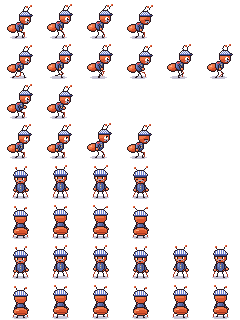
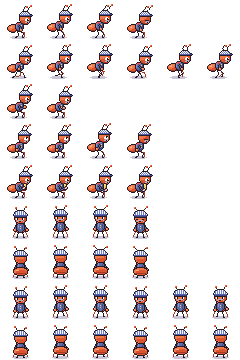
feat(villagers): give the station's villagers midday and dusk routines
- Midday: Helen wipes cups at her stall, Kapten Bram polishes his
  whistle at the foot of his carriage's steps, the Mender taps the old
  engine's wheels, and the porter keeps carrying sacks.
- Dusk: Helen sits on the platform bench facing the tunnel, Bram stands
  by the old engine, the Mender is back at the forge, and the porter
  has gone home.
- Each villager has their own line for each phase.
- A polish pose rubs what is held with a checked cloth: Helen's cup,
  Bram's whistle.
- A seat raises a villager while they sit, so a bench's sitter is on
  its seat; they stay seated when talked to, and a standing pose from
  the story keeps them on the ground.

diff --git a/game/ArtSource/chars.js b/game/ArtSource/chars.js
@@ -142,7 +142,7 @@
       bent: 1, lash: true,
       parts: [],
     },
-    helen: { sleeve: ['slate1', 'slate2'],
+    helen: { sleeve: ['slate1', 'slate2'], polish: 'cup',
       torso: { rows: ['.yyyyY.', 'SyYYYyS', 'sSSYyYS', 'sSoSYYS', 'sSSSSYT', 'SSSSSTT', '.SSTTT.', '..TTT..'],
                key: { s: 'slate0', S: 'slate1', T: 'slate2', y: 'brass1', Y: 'brass2', o: 'brass0' } },
       lash: true,
@@ -246,7 +246,7 @@
     },
     // Kapten Bram, the retired engine driver: a navy driver's jacket with brass buttons, a red neckerchief, a grey
     // moustache and the striped driver's cap.
-    bram: { sleeve: ['navy1', 'navy2'],
+    bram: { sleeve: ['navy1', 'navy2'], polish: 'whistle',
       torso: { rows: ['.rrrmm.', 'mrRNNNn', 'mNNNNon', 'mNNNNNn', 'mNNNNon', 'NNNNNnn', '.NNnnn.', '..nnn..'],
                key: { r: 'red', R: 'roofR3', m: 'navy0', N: 'navy1', n: 'navy2', o: 'brass1' } },
       bent: 0,
@@ -330,8 +330,8 @@
   };
 
   /* ---------------- poses ---------------- */
-  const POSES = { idle: 4, walk: 6, talk: 2, give: 2, receive: 2, carry: 2, carryWalk: 6, inspect: 2, wave: 2, sit: 2, moved: 2, run: 6, brew: 4, hammer: 4, look: 4, lift: 2 };
-  const FPS = { idle: 4, walk: 10, run: 12, carryWalk: 9, talk: 6, give: 3, receive: 3, carry: 4, inspect: 3, wave: 5, sit: 2, moved: 2, brew: 3, hammer: 6, look: 2, lift: 2 };
+  const POSES = { idle: 4, walk: 6, talk: 2, give: 2, receive: 2, carry: 2, carryWalk: 6, inspect: 2, wave: 2, sit: 2, moved: 2, run: 6, brew: 4, hammer: 4, look: 4, lift: 2, polish: 4 };
+  const FPS = { idle: 4, walk: 10, run: 12, carryWalk: 9, talk: 6, give: 3, receive: 3, carry: 4, inspect: 3, wave: 5, sit: 2, moved: 2, brew: 3, hammer: 6, look: 2, lift: 2, polish: 4 };
   // Those in TURN also face the camera (pose_front) and turn away from it (pose_back) as they stand, walk, run and carry.
   const TURNS = ['idle', 'walk', 'run', 'carry', 'carryWalk'], VIEWS = ['front', 'back'];
   for (const p of TURNS) for (const v of VIEWS) { POSES[`${p}_${v}`] = POSES[p]; FPS[`${p}_${v}`] = FPS[p]; }
@@ -349,6 +349,7 @@
     if (id === 'mender') s.push('hammer');
     if (id === 'bram') s.push('look');
     if (CAST[id].load) s.push('carry', 'carryWalk', 'lift');
+    if (CAST[id].polish) s.push('polish');
     if (TURN[id]) s.push(...TURNS.filter(p => s.includes(p)).flatMap(p => VIEWS.map(v => `${p}_${v}`)));
     HAS[id] = s;
   }
@@ -469,6 +470,10 @@
         r.dy = [0, 0, -1, 0][f]; r.hy -= 1; r.hx -= 1; r.eye = f === 3 ? 'blink' : 'up';
         armN = [[-1, 3], [-3, 4]]; armF = [[-1, 3], [-2, 4]];
         break;
+      case 'polish':   // rubbing what they hold (Helen's cup, Bram's whistle) with a cloth, round and round
+        armF = [[3, 3], [7, 3]]; armN = [[2, 3], [[4, 2], [6, 2], [6, 4], [4, 4]][f]];
+        r.polish = true;
+        break;
     }
     if (pose === 'carry' || pose === 'carryWalk') {
       r.parcel = [3, -1];                                   // parcel fill origin, relative to the near shoulder
@@ -586,7 +591,14 @@
       plated(x, g => { line(g, hand[0], hand[1], ex, ey, 'wood2'); rect(g, ex - 1, ey - 1, 3, 3, 'iron2'); dot(g, ex - 1, ey - 1, 'iron1'); });
       if (r.hammer.spark) { dot(x, ex + 3, ey - 2, 'yellow'); dot(x, ex + 4, ey, 'light0'); dot(x, ex + 2, ey - 3, 'light2'); }
     }
+    if (r.polish) {   // what is polished, in the far hand, under the cloth
+      const [px2, py2] = r.arms[0].pts[r.arms[0].pts.length - 1];
+      plated(x, g => ch.polish === 'cup'
+        ? (rect(g, px2 - 1, py2 - 3, 4, 3, 'white'), dot(g, px2 - 2, py2 - 2, 'white'))
+        : (rect(g, px2, py2 - 5, 2, 5, 'brass1'), dot(g, px2, py2 - 5, 'brass0'), dot(g, px2 + 1, py2 - 2, 'brass2')));
+    }
     if (!r.behind) arm(x, r.arms[1], ch.sleeve);
+    if (r.polish) [[0, -1, 'red'], [1, -1, 'white'], [0, 0, 'white'], [1, 0, 'red']].forEach(([ox, oy, c]) => dot(x, hand[0] + ox, hand[1] + oy, c));   // a checked cloth
     if (r.pot) {   // the teapot by its handle, leaning forward to pour, tea running from the spout
       const [hx2, hy2] = hand, lean = i => (r.pot.tip ? i >> 1 : 0);
       plated(x, g => {

diff --git a/game/Assets/Scripts/Core/Places.cs b/game/Assets/Scripts/Core/Places.cs
@@ -33,6 +33,9 @@ namespace Shop
                 {
                     // Morning: Helen brews at her stall, Kapten Bram paces between the frozen clock and the timetable,
                     // a porter carries sacks up from the yard to Helen's stall, and the Mender is at the anvil.
+                    // Midday: Helen wipes cups, Bram polishes the whistle by his carriage, the Mender taps the old
+                    // engine's wheels. Dusk: Helen waits on the bench facing the tunnel, Bram stands by the engine,
+                    // the Mender is back at the forge and the porter has gone home.
                     new Person
                     {
                         Id = "helen", At = V(352, 316), Label = "Helen", Spot = V(18, 2), Pose = "brew", Facing = -1, Phases = new[] { Phase.Morning },
@@ -50,7 +53,7 @@ namespace Shop
                     },
                     new Person
                     {
-                        Id = "porter", Label = "Porter", Spot = V(0, -10), Phases = new[] { Phase.Morning },
+                        Id = "porter", Label = "Porter", Spot = V(0, -10), Phases = new[] { Phase.Morning, Phase.Midday },
                         // a sack from the pile in the yard up to Helen's stall, set down by her crates, and back for the next
                         Round = new[]
                         {
@@ -64,7 +67,36 @@ namespace Shop
                         Id = "mender", At = V(566, 626), Label = "Mender", Spot = V(0, 14), Pose = "hammer", Phases = new[] { Phase.Morning },
                         Line = "Morning. Mind the sparks.",
                     },
-                    new Person { Id = "helen", At = V(352, 316), Label = "Helen", Spot = V(18, 2), Facing = -1, Phases = new[] { Phase.Midday, Phase.Dusk } },
+                    new Person
+                    {
+                        Id = "helen", At = V(352, 316), Label = "Helen", Spot = V(18, 2), Pose = "polish", Facing = -1, Phases = new[] { Phase.Midday },
+                        Line = "Every cup gets a wipe, used or not. You never know who'll step off that train.",
+                    },
+                    new Person
+                    {
+                        Id = "bram", At = V(232, 632), Label = "Kapten Bram", Spot = V(18, 4), Pose = "polish", Facing = -1, Phases = new[] { Phase.Midday },
+                        Line = "Brass goes green if you let it. I give the whistle a rub every day, in case she needs it.",
+                    },
+                    new Person
+                    {
+                        Id = "mender", At = V(520, 266), Label = "Mender", Spot = V(20, 6), Pose = "hammer", Phases = new[] { Phase.Midday },
+                        Line = "Wheels are sound. Bearings too. She could run tomorrow, if anyone let her.",
+                    },
+                    new Person
+                    {
+                        Id = "helen", At = V(430, 277), Label = "Helen", Spot = V(26, 6), Pose = "sit", Seat = 9, Facing = -1, Phases = new[] { Phase.Dusk },
+                        Line = "I sit here every evening. The tunnel's dark, but I like to be the first face they see.",
+                    },
+                    new Person
+                    {
+                        Id = "bram", At = V(612, 268), Label = "Kapten Bram", Spot = V(20, 4), Pose = "look", Facing = -1, Phases = new[] { Phase.Dusk },
+                        Line = "The old girl's still got steam in her somewhere. You can hear it, if the evening's quiet.",
+                    },
+                    new Person
+                    {
+                        Id = "mender", At = V(566, 626), Label = "Mender", Spot = V(0, 14), Pose = "hammer", Phases = new[] { Phase.Dusk },
+                        Line = "One more piece before dark. The forge doesn't like to go cold.",
+                    },
                 },
                 Hotspots = new[]
                 {

diff --git a/game/Assets/Scripts/Actors/Ant.cs b/game/Assets/Scripts/Actors/Ant.cs
@@ -34,6 +34,7 @@ namespace Shop
         Texture2D sheet;
         string pose = "idle";
         int facing = 1;
+        float seat;
         Heading heading;
         Sprite held;
         float time, step;
@@ -122,6 +123,17 @@ namespace Shop
             {
                 facing = value;
                 Refresh();
+            }
+        }
+
+        /// <summary>How high the seat it sits on is, in art px; it is raised by that while it sits.</summary>
+        public float Seat
+        {
+            get => seat;
+            set
+            {
+                seat = value;
+                Place();
             }
         }
 
@@ -266,7 +278,7 @@ namespace Shop
         void Place()
         {
             var world = transform.parent ? transform.parent.GetComponent<BakedArt>() : null;
-            transform.localPosition = Art.World(feet, (world ? world.Relief.Stand(feet, Tall) : 0) + Nudge);
+            transform.localPosition = Art.World(feet, (world ? world.Relief.Stand(feet, Tall) : 0) + (pose == "sit" ? seat : 0) + Nudge);
         }
 
         void Refresh()

diff --git a/game/Assets/Scripts/Actors/Villager.cs b/game/Assets/Scripts/Actors/Villager.cs
@@ -24,6 +24,7 @@ namespace Shop
             {
                 ant.Pose = def.Pose;
                 ant.Facing = def.Facing;
+                ant.Seat = def.Seat;
                 ant.Feet = def.At;
                 return;
             }
@@ -32,12 +33,12 @@ namespace Shop
             v.wait = Random.Range(0f, v.wait); // so no two rounds keep step
         }
 
-        /// <summary>Stops whatever they are doing and turns to the courier.</summary>
+        /// <summary>Stops whatever they are doing and turns to the courier; someone sitting stays seated.</summary>
         public void Talk(float courierX)
         {
             talking = true;
             ant.Stop();
-            ant.Pose = listening = ant.Carrying ? "carry" : "idle";
+            ant.Pose = listening = ant.Carrying ? "carry" : ant.Pose == "sit" ? "sit" : "idle";
             ant.FaceTo(courierX);
         }
 

diff --git a/game/Assets/Scripts/Core/PlaceDef.cs b/game/Assets/Scripts/Core/PlaceDef.cs
@@ -41,6 +41,8 @@ namespace Shop
         public int Facing = 1;
         /// <summary>What they are doing where they stand (brew, hammer...).</summary>
         public string Pose = "idle";
+        /// <summary>How high the seat they sit on is, in art px (a bench's is 9).</summary>
+        public float Seat;
         /// <summary>The chapters they are there; null means every chapter.</summary>
         public int[] Chapters;
         /// <summary>The times of day they are there; null means at any time.</summary>
